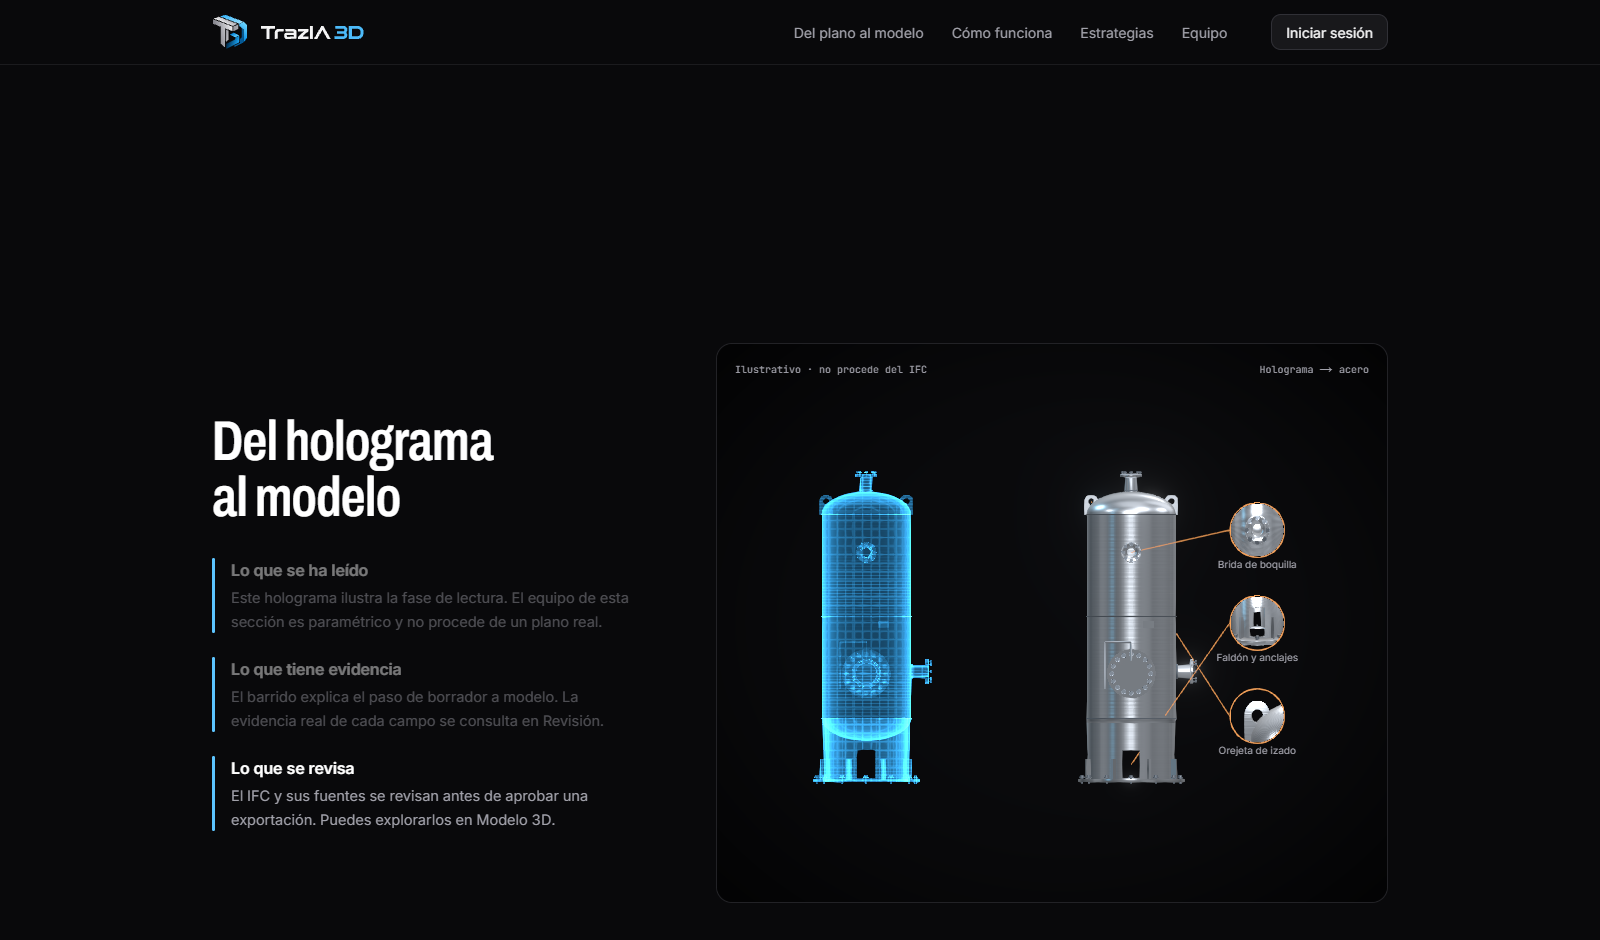
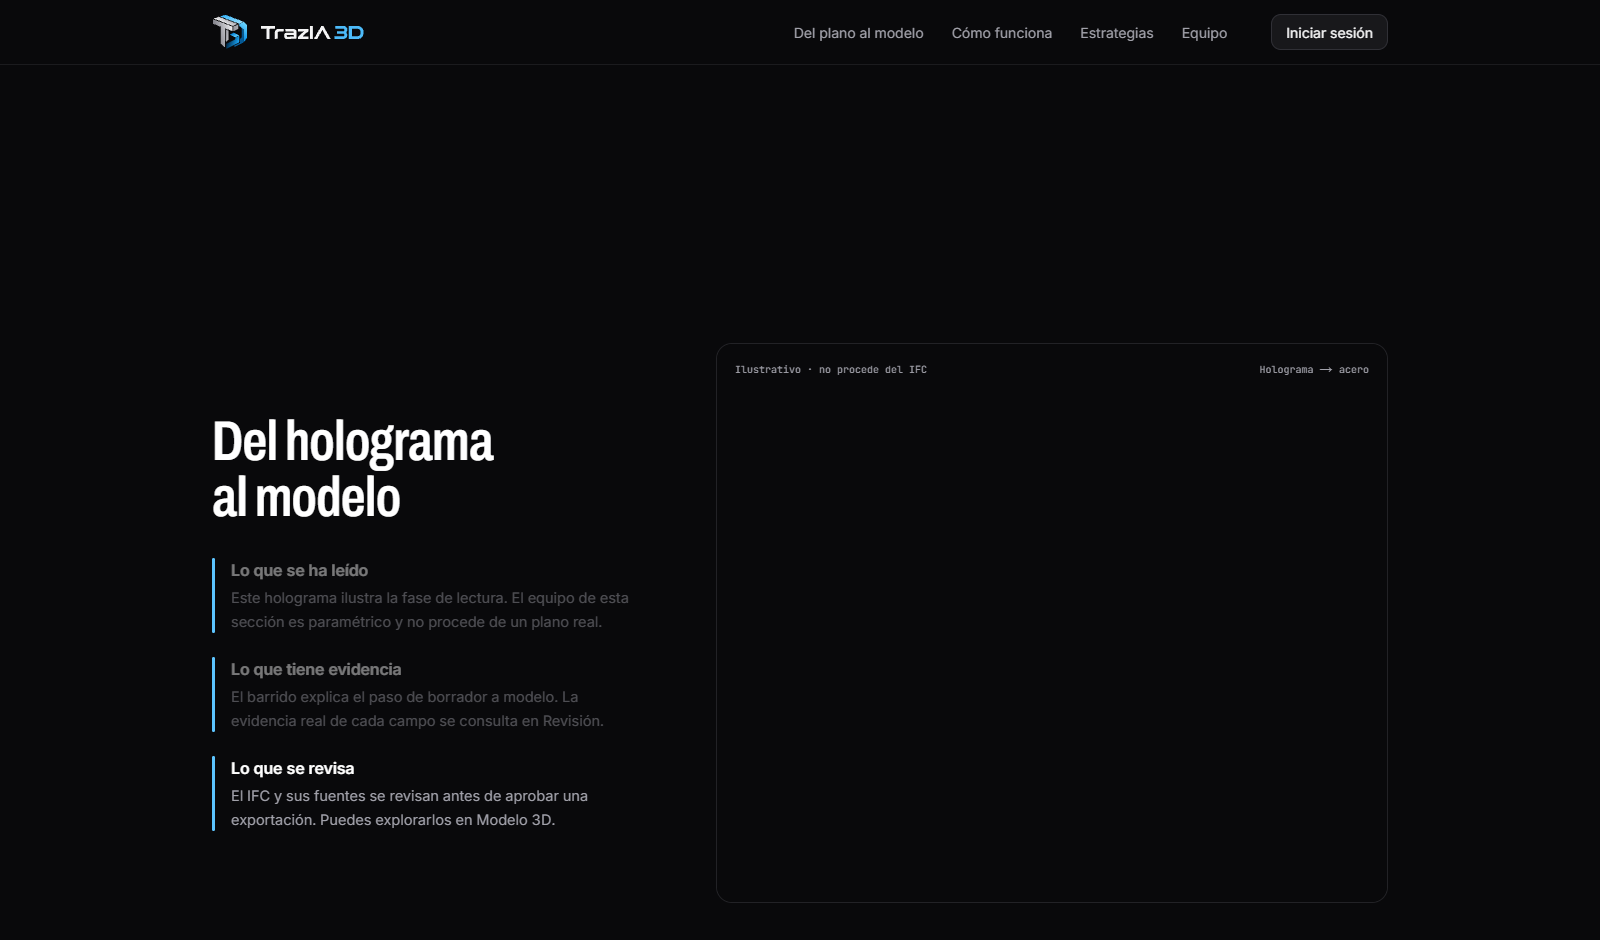
Propaga y verifica el presupuesto de render al holograma de portada

Changed region(s): [[0.6562, 0.4936, 0.8125, 0.833], [0.5, 0.4936, 0.5938, 0.833]]

diff --git a/web/tests/e2e/fluidez.spec.ts b/web/tests/e2e/fluidez.spec.ts
@@ -91,6 +91,7 @@ test("la landing conserva el recorrido y pausa las escenas fuera de pantalla",as
   await page.getByRole("heading",{name:"Del holograma al modelo",exact:true}).scrollIntoViewIfNeeded();
   await expect(hero).toHaveAttribute("data-scene-active","false");
   await expect(page.locator('[data-source="procedural"] canvas')).toBeVisible({timeout:45_000});
+  await expect(page.locator('[data-source="procedural"] [data-pixel-budget]')).toHaveAttribute("data-pixel-budget","650000");
   await expect(page.getByRole("heading",{name:"Cómo funciona",exact:true})).toBeAttached();
   mkdirSync(output,{recursive:true});
   writeFileSync(resolve(output,"render.json"),JSON.stringify({renderer:"SwiftShader CPU",pixelBudget:650000,

diff --git a/web/src/features/hologram/hologram-to-real.tsx b/web/src/features/hologram/hologram-to-real.tsx
@@ -414,6 +414,7 @@ function ProceduralSource({
 
 function HologramPlayer({
   source,
+  pixelBudget,
   layout = "side",
   progress,
   progressValue,
@@ -437,7 +438,7 @@ function HologramPlayer({
   const [ready, setReady] = useState(false);
   const onReady = useCallback(() => setReady(true), []);
   const draw = (data: Source) => (
-    <SceneCanvas rotating={false} rotationControl={false}
+    <SceneCanvas pixelBudget={pixelBudget} rotating={false} rotationControl={false}
       label={
         source === "ifc"
           ? "Holograma y materialización de geometría IFC sintética"
